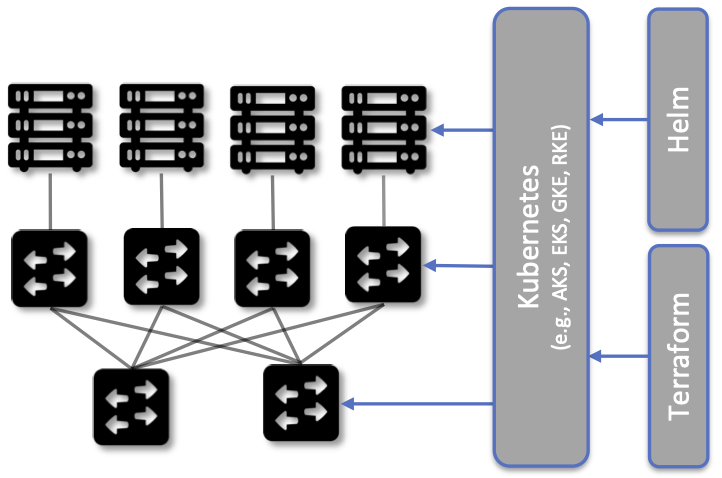
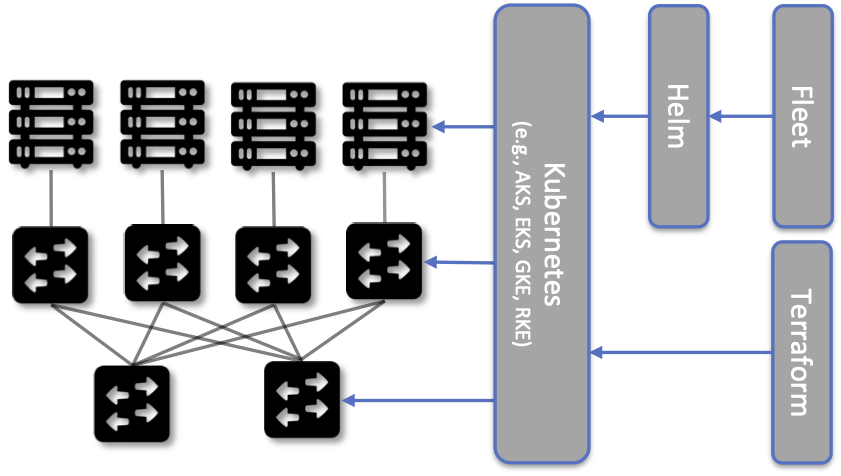
include Fleet tooling

diff --git a/cloud.rst b/cloud.rst
@@ -92,7 +92,10 @@ components:
 3. Helm specifies how collections of related containers are
    interconnected to build microservice-based applications.
 
-4. Terraform provisions a set of one or more Kubernetes clusters,
+4. Fleet specifies how a set of Kubernetes applications are to be
+   deployed on the available infrastructure.
+
+5. Terraform provisions a set of one or more Kubernetes clusters,
    configuring them to host microservice applications.
 
 Docker is a container runtime that leverages OS isolation APIs to
@@ -132,8 +135,8 @@ that implements X running at all times.
    <https://kubernetes.io/docs/tutorials/kubernetes-basics/>`__.
 
 Helm is a configuration manager that runs on top of Kubernetes. It
-issues calls against the Kubernetes API according to an
-operator-provided specification, known as a *Helm Chart*. It is now
+issues calls against the Kubernetes API according to a
+developer-provided specification, known as a *Helm Chart*. It is now
 common practice for cloud applications built from a set of
 microservices to publish a Helm chart that defines how the application
 is to be deployed on a Kubernetes cluster. See
@@ -145,6 +148,23 @@ Helm Charts.
 
    `Helm Tutorial
    <https://helm.sh/docs/intro/quickstart/>`__.
+
+Fleet an application deployment manager that is responsible for
+installing a *Bundle* of Helm Charts on one or more target
+clusters. If we were trying to deploy a single Chart on just one
+Kubernetes cluster, then Helm would be sufficient. The value of Fleet
+is that it scales up that process, helping us manage the deployment of
+multiple charts across multiple clusters. Moreover, Fleet does this
+using an approach known as *Configuration-as-Code*, where the desired
+configuration is checked into a repo, just like any other
+software. Checking a new or updated updated Bundle into a repo
+triggers the deployment of the corresponding applications.
+
+.. _reading_fleet:
+.. admonition:: Further Reading
+
+   `Fleet: GitOps at Scale
+   <https://fleet.rancher.io/>`__.
 
 Terraform is an infrastructure manager that, in our scenario,
 provisions one or more Kubernetes clusters, preparing them to host a
@@ -163,6 +183,22 @@ being widely available examples.
 
    `Terraform Tutorials
    <https://learn.hashicorp.com/terraform>`__.
+
+The inter-related roles of Helm, Fleet, and Terraform can be
+confusing, in part because there is overlap in what each tries to do.
+One distinction is that Helm Charts are typically specified by
+*developers* as a way of specifying how an application is constructed
+from a set of microservices, whereas Fleet and Terraform give
+*operators* an opportunity to specify details of their particular
+deployment scenarios. A second distinction is that Helm and Fleet help
+manage the *applications running on* one or more Kubernetes clusters,
+whereas Terraform is used to set up and configure the *underlying
+Kubernetes clusters* in the first place. Again, there is overlap in
+the capabilities of these respective tools, but these two distinctions
+characterize how they are used in Aether. The more general takeaway is
+that cloud management has to accommodate both developers and
+operators, and to clearly delineate between applications and
+platforms.
 
 6.2 Example Deployment
 ----------------------
@@ -427,8 +463,9 @@ At a high level, AMP is organized around the four subsystems shown in
 * **Lifecycle Management** is responsible for continuous integration
   and deployment of the software components that collectively
   implement 5G-as-a-Service. It adopts the GitOps practice of
-  *Configuration-as-Code*, using Helm Charts and Terraform Templates
-  to specify how functionality is to be deployed and configured.
+  *Configuration-as-Code*, using Helm Charts, Terraform Templates, and
+  Fleet Bundles to specify how functionality is to be deployed and
+  configured.
 
 * **Service Orchestration** provides a means to manage services once
   they are operational. It defines an API that hides the
@@ -442,19 +479,18 @@ At a high level, AMP is organized around the four subsystems shown in
   security audits, and understand when it is necessary to provision
   additional capacity.
     
-While AMP implements all four subsystems, there is an alternative
-perspective worth highlighting, one in which the management platform
-is characterized as having *online* and *offline* components. Such a
-two dimensional schematic is shown in :numref:`Figure %s <fig-2D>`.
-Lifecycle Management (coupled with Resource Provisioning) runs
-offline, sitting adjacent to the hybrid cloud. Operators and
-Developers provision and change the system by checking code (including
-configuration specs) into a repo, which in turn triggers an upgrade of
-the running system. Service Orchestration (coupled with Monitoring and
-Telemetry) runs online, layered on top of the hybrid cloud being
-managed. It defines an API that can be used to read and write
-parameters of the running system, which serves as a foundation for
-building closed-loop control. 
+AMP implements all four subsystems, but an alternative perspective
+that characterizes the management platform as having *online* and
+*offline* components is also instructive. Such a two dimensional
+schematic is shown in :numref:`Figure %s <fig-2D>`.  Lifecycle
+Management (coupled with Resource Provisioning) runs offline, sitting
+adjacent to the hybrid cloud. Operators and Developers provision and
+change the system by checking code (including configuration specs)
+into a repo, which in turn triggers an upgrade of the running system.
+Service Orchestration (coupled with Monitoring and Telemetry) runs
+online, layered on top of the hybrid cloud being managed. It defines
+an API that can be used to read and write parameters of the running
+system, which serves as a foundation for building closed-loop control.
 
 .. _fig-2D:
 .. figure:: figures/ops/Slide11.png 
@@ -464,15 +500,15 @@ building closed-loop control.
    Alternative representation of the management platform, highlighting
    the offline and online aspects of cloud management.
 
-Finally, the offline and online aspects of cloud management are
-related in the sense that the offline component also
-lifecycle-manages the online component. This is because the latter
-are deployed as Kubernetes applications, just like SD-Core and
-SD-RAN. Version management is a key aspect of this relationship since
-the runtime API to the 5G connectivity service has to stay in sync
-with the underlying implementation of the constituent subsystems. How
-Aether realizes version control is described in more detail in the
-companion Edge Cloud Operations book.
+The offline and online aspects of cloud management are related in the
+sense that the offline component is also responsible for
+lifecycle-managing the online component. This is because the latter is
+deployed as a collection of Kubernetes applications, just like SD-Core
+and SD-RAN. Version management is a key aspect of this relationship
+since the runtime API to the 5G connectivity service has to stay in
+sync with the underlying implementation of the constituent
+subsystems. How Aether realizes version control is described in more
+detail in the companion Edge Cloud Operations book.
 
 
 6.3.1 Resource Provisioning
@@ -535,12 +571,12 @@ them from the respective Repositories.
    Overview of the CI/CD pipeline.
 
 The Config Repo also contains declarative specifications of the
-infrastructure artifacts, specifically, the Terraform templates. These
-files are input to Lifecycle Management, which implies that Terraform
-gets invoked as part of CI/CD whenever these files change. In other
-words, CI/CD keeps both the software-related components in the
-underlying cloud platform and the microservice workloads that run on
-top of that platform up to date.
+infrastructure artifacts (specifically, Terraform templates and Fleet
+Bundles). These files are input to Lifecycle Management, which implies
+that Terraform and Fleet gets invoked as part of CI/CD whenever these
+files change. In other words, CI/CD keeps both the software-related
+components in the underlying cloud platform and the microservice
+workloads that run on top of that platform up to date.
 
 .. sidebar:: Continuous Delivery vs Deployment
 

diff --git a/software/directory.rst b/software/directory.rst
@@ -1,19 +1,20 @@
 Source Directory
 --------------------------
 
-Source code for Aether (and its subsystems) is distributed across
+Source code for Aether and all of its subsystems is distributed across
 multiple repositories:
 
 * Gerrit repository for the CORD Project
-  (https://gerrit.opencord.org): AMP-related components, including
-  source for the jobs that implement the CI/CD pipeline.
+  (https://gerrit.opencord.org): Microservices for AMP, plus source
+  for the jobs that implement the CI/CD pipeline.
 
-* GitHub repository for the OMEC Project 
-  (https://github.com/omec-project): Microservices for SD-Core. 
+* GitHub repository for the OMEC Project
+  (https://github.com/omec-project): Microservices for SD-Core, plus
+  the emulator that subjects SD-Core to RAN workloads.
 
 * GitHub repository for the ONOS Project
-  (https://github.com/onosproject): Microservices for SD-Fabric
-  and SD-RAN, plus the YANG models used to generate the ROC API.
+  (https://github.com/onosproject): Microservices for SD-Fabric and
+  SD-RAN, plus the YANG models used to generate the Aether API.
 
 * GitHub repository for the Stratum Project
   (https://github.com/stratum): On-switch components of SD-Fabric.

diff --git a/software/overview.rst b/software/overview.rst
@@ -12,7 +12,7 @@ the *Source Directory* section of this appendix for information about
 where to find the relevant code repositories.)
 
 A multi-site deployment of Aether has been running since 2020 in
-support of the *Pronto Project*, but that deployment depends on a ops
+support of the *Pronto Project*, but that deployment depends on an ops
 team with significant insider knowledge about Aether's engineering
 details. It is difficult for individuals to reproduce that know-how
 and bring up their own Aether clusters.  As an alternative, Aether is

diff --git a/software/start.rst b/software/start.rst
@@ -86,7 +86,7 @@ target server. Do this by typing:
 `kubectl` will show the `kube-system` and `calico-system` namespaces
 running.
 
-Configrue the Network
+Configure the Network
 ~~~~~~~~~~~~~~~~~~~~~
 
 Since Aether ultimately provides a connectivity service, how the
